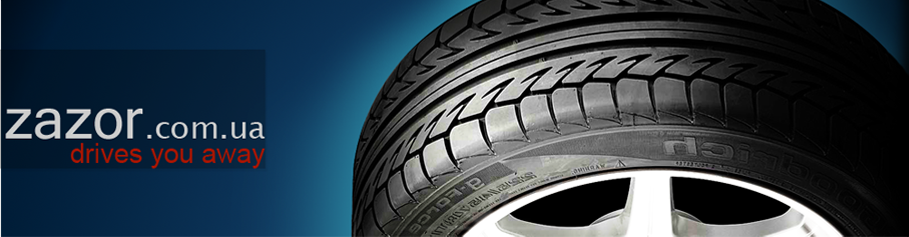
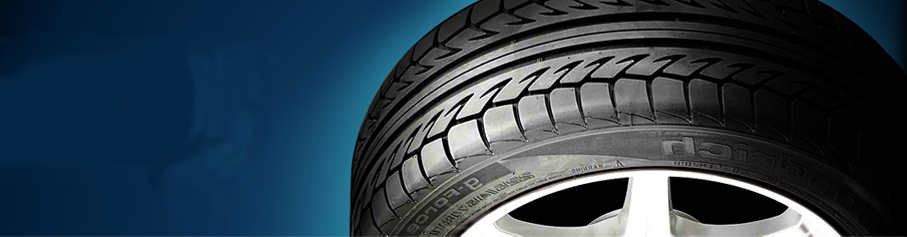
исправил 6дз

diff --git a/m6/css/style.css b/m6/css/style.css
@@ -214,6 +214,41 @@ h2,h3 {
 
 .banner {
     margin-top: 9px;
+    background: url(../img/banner.png) no-repeat;
+    background-size: cover;
+    padding-top: 50px;
+    padding-bottom: 70px;
+}
+
+.link_zazor {
+    text-decoration: none;
+    display: block;
+    width: 264px;
+    background: rgba(0,0,0,.5);
+    padding-top: 50px;
+    padding-bottom: 0;
+}
+
+.link_zazor:hover {
+    background: rgba(0,0,0,.7);
+}
+
+.container_zazor {
+    line-height: 100%;
+}
+
+.container_zazor span{
+    font-size: 25px;
+    color: #cccccc;
+}
+
+.container_zazor .h1 {
+    font-size: 50px;
+}
+
+.container_zazor h2{
+    color: #9c1603;
+    text-align: right;
 }
 
 /*NAVIGATION*/

diff --git a/m6/index.html b/m6/index.html
@@ -28,10 +28,13 @@
 					</ul>
 			</nav>
 			<div class="banner">
-				<!-- <img src="img/banner.png" alt=""> -->
-				<div class="link_zazor">
-					<h1>ZAZOR.com.ua</h1>
-					<h2>drives you away</h2>
+				<div class="container">
+					<a href="" class="link_zazor">
+						<div class="container_zazor">
+							<span class="h1">zazor</span><span class="h2">.com.ua</span>
+							<h2>drives you away</h2>
+						</div>
+					</a>
 				</div>
 			</div>
 			<nav class="nav_menu">
